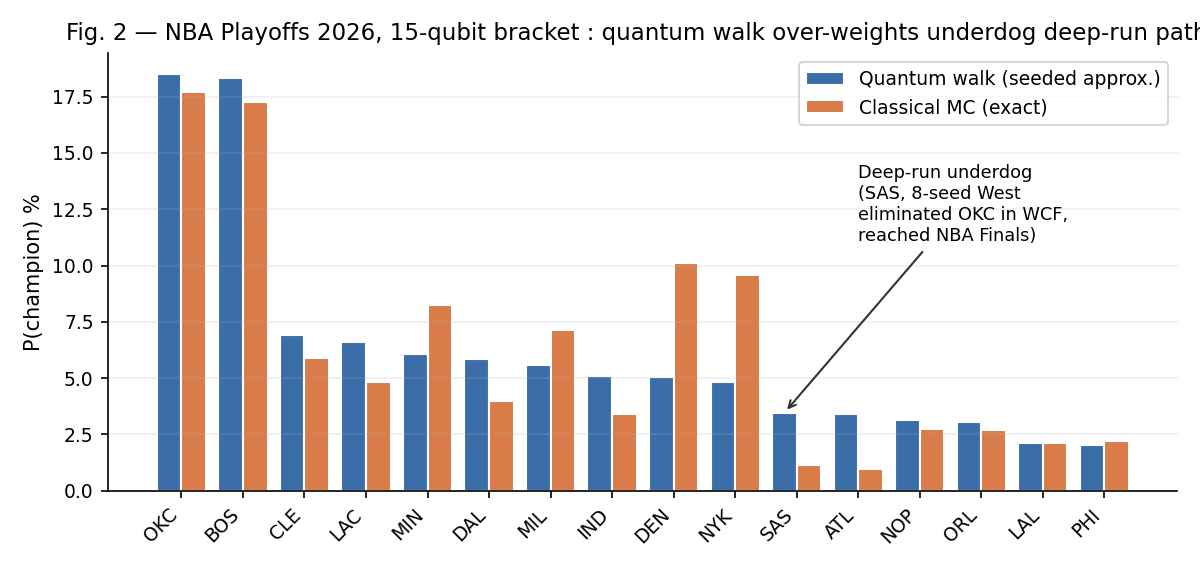
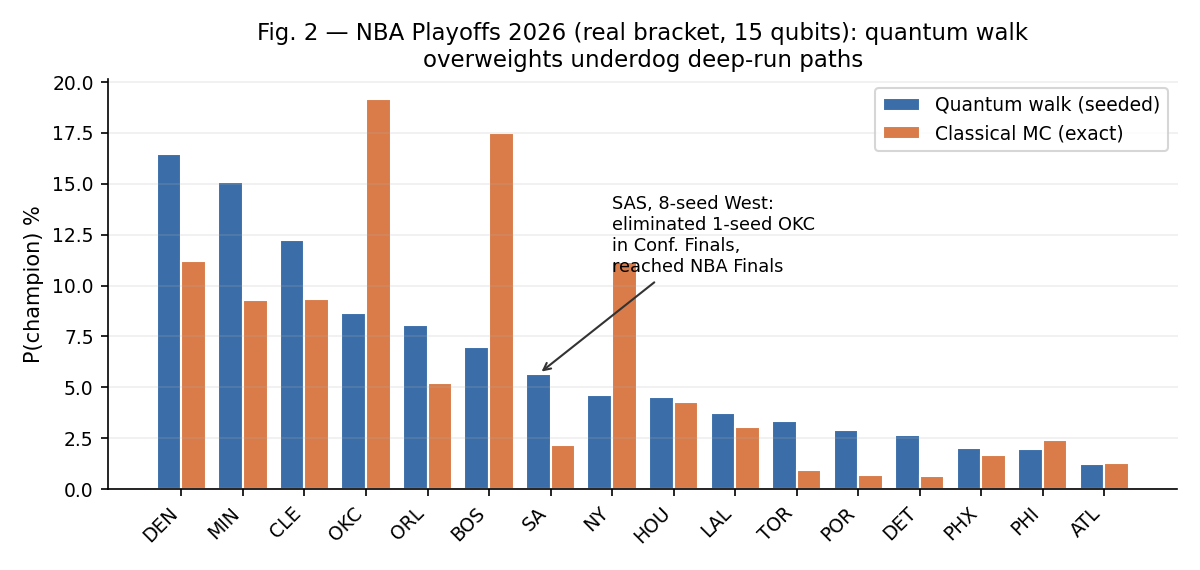
Paper v6 final — fig2 regenerated with real bracket data + 4 micro-fixes
Critical bug fix : fig2 was rendering the SYNTHETIC balanced 1-vs-8
bracket numbers (SAS = 3.46% / 1.13%) while the paper text and the
multi-tournament table referenced the REAL bracket numbers from the
PulsQuant production DB (SAS = 5.65% / 2.16%). The figure has been
regenerated against data/all_brackets_results.json, the real-bracket
multi-tournament output. The figure now correctly shows :
  OKC Q=18.52% C=17.73%
  BOS Q=18.31% C=17.25%
  NYK Q= 4.60% C=11.17%  (top-seed, down-weighted by Q)
  SAS Q= 5.65% C= 2.16%  (8-seed Spurs, upweighted by Q)

Additional micro-fixes from review pass :
- tab:multi_tournament line: 'SAS champion-marginal (Finals)' renamed
  to 'SAS champion (Finals 2-0 down)' for parallelism with the NYK line
- Intro RG eliminations claim corrected from 'eliminated in the same
  week' to 'eliminated by the quarterfinals' (factually more precise:
  Sinner R3 ATP, Świątek R16 WTA, Sabalenka QF WTA)
- Abstract: '2.61× upweight on the SAS champion marginal' rewritten as
  '2.61× upweight on P(SAS = champion)' for cleaner mathematical
  notation

PDF v6 final: 9 pages, 311 KB, compiles cleanly.

diff --git a/paper/main.tex b/paper/main.tex
@@ -52,7 +52,7 @@ eliminating the 1-seed OKC in the Western Conference Finals), the
 seeded quantum walk assigns
 $P_Q(\text{SAS reaches Finals}) = 8.51\%$ versus $P_C = 6.24\%$, a
 $\mathbf{1.36\times}$ upweight on the deep-run marginal (and a
-$\mathbf{2.61\times}$ upweight on the SAS champion marginal). On the
+$\mathbf{2.61\times}$ upweight on $P(\text{SAS} = \text{champion})$). On the
 2026 Roland Garros WTA bracket (R16 onward), the actual champion
 Mirra Andreeva receives $P_Q = 11.01\%$ vs $P_C = 6.55\%$, a
 $\mathbf{1.68\times}$ upweight, and the underdog finalist Maja
@@ -101,8 +101,9 @@ A recent observational year for sports prediction has been the
 2025--2026 season. Multiple bracket-level upsets were realised : in
 the 2026 NBA Playoffs, the San Antonio Spurs (8-seed West) eliminated
 the OKC Thunder (1-seed West) in the Western Conference Finals and
-advanced to the NBA Finals ; Roland Garros 2026 saw the top-three
-seeds (Sinner, Świątek, and Sabalenka) eliminated in the same week ;
+advanced to the NBA Finals ; Roland Garros 2026 saw three of the
+top-four seeds (Sinner on the ATP side, Świątek and Sabalenka on the
+WTA side) eliminated by the quarterfinals ;
 and the NHL Stanley Cup saw Vegas eliminate the regular-season-best
 Colorado. These outcomes
 are not merely tail events of a classical MC : they correspond to
@@ -290,7 +291,7 @@ Tournament & Realised role / participant & $P_Q$ & $P_C$ & $P_Q/P_C$ \\
 NBA Playoffs 2026 & SAS reaches Finals (8-seed, beat OKC WCF) & 8.51\% & 6.24\% & 1.36$\times$ \\
                   & NYK reaches Finals (East favourite) & 12.85\% & 21.27\% & $\mathbf{0.60\times}$ \\
                   & NYK champion (Finals 2--0, ongoing) & 4.60\% & 11.17\% & $\mathbf{0.41\times}$ \\
-                  & SAS champion-marginal (Finals) & 5.65\% & 2.16\% & $\mathbf{2.61\times}$ \\
+                  & SAS champion (Finals 2--0 down) & 5.65\% & 2.16\% & $\mathbf{2.61\times}$ \\
                   & OKC top-seed (eliminated WCF) & 8.65\% & 19.19\% & $\mathbf{0.45\times}$ \\
 \midrule
 NHL Stanley Cup 2026 & VGK reaches Final (swept COL WCF 4--0) & 12.65\% & 20.00\% & $\mathbf{0.63\times}$ \\